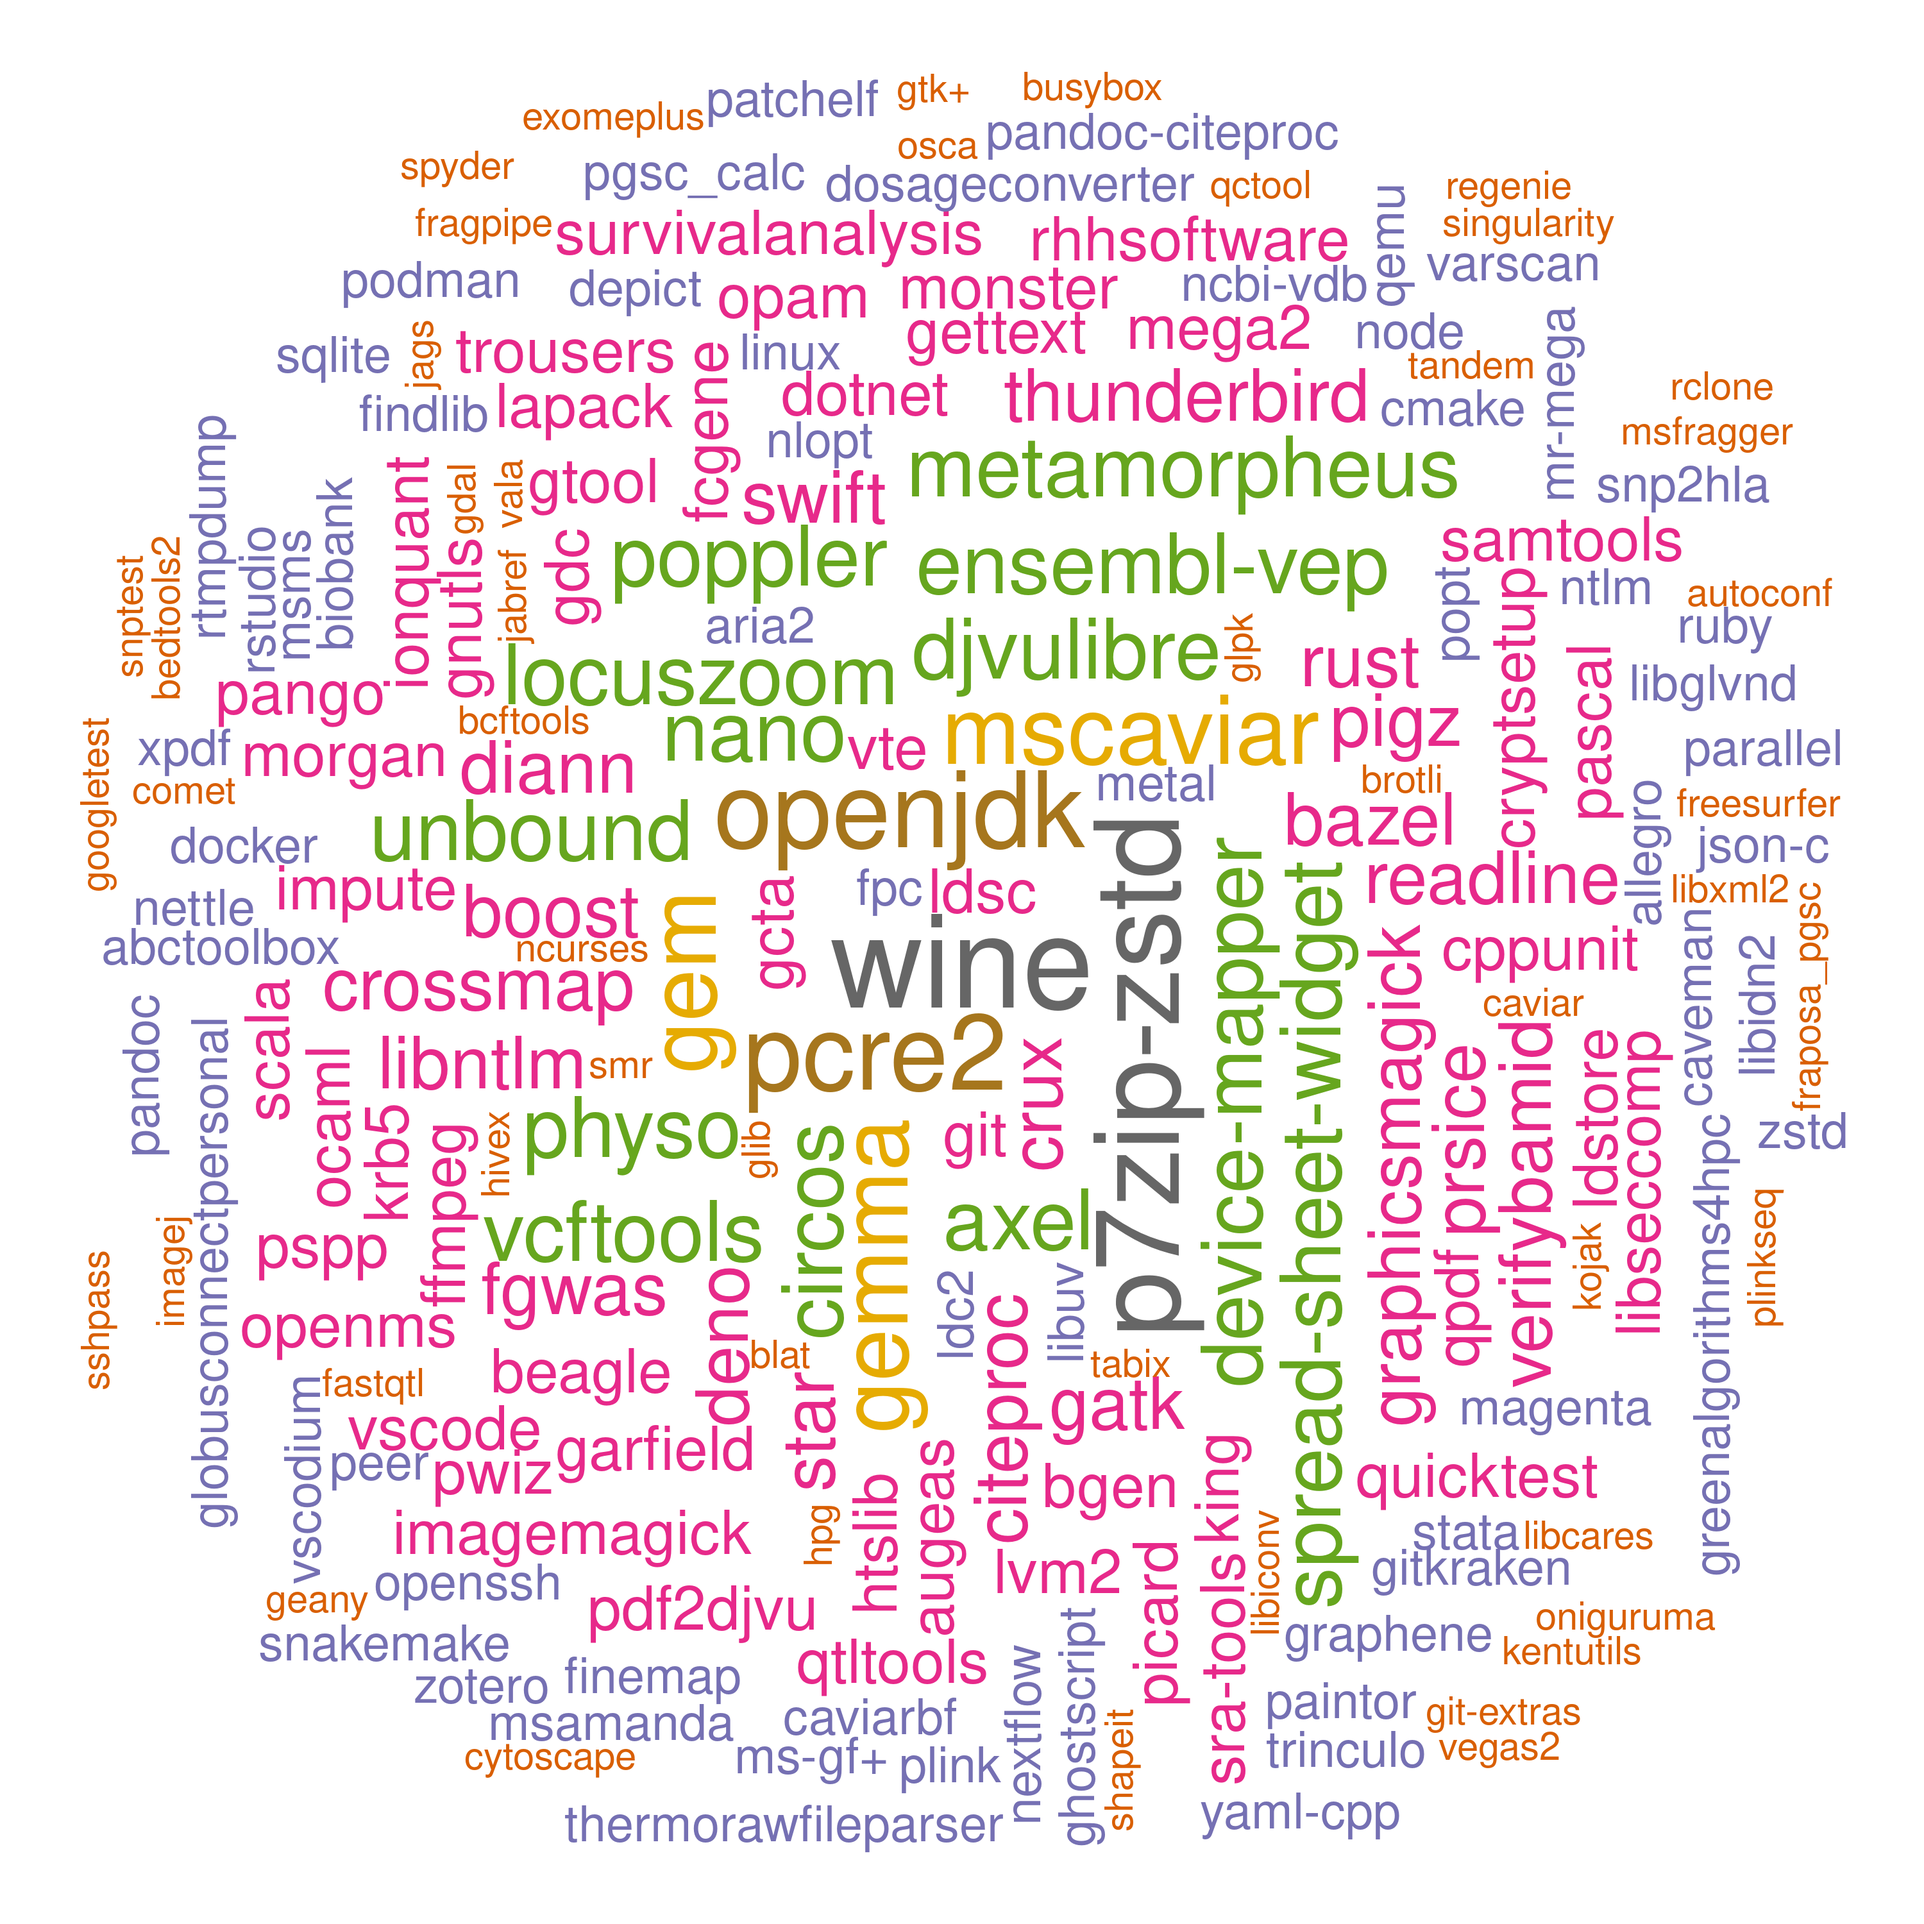
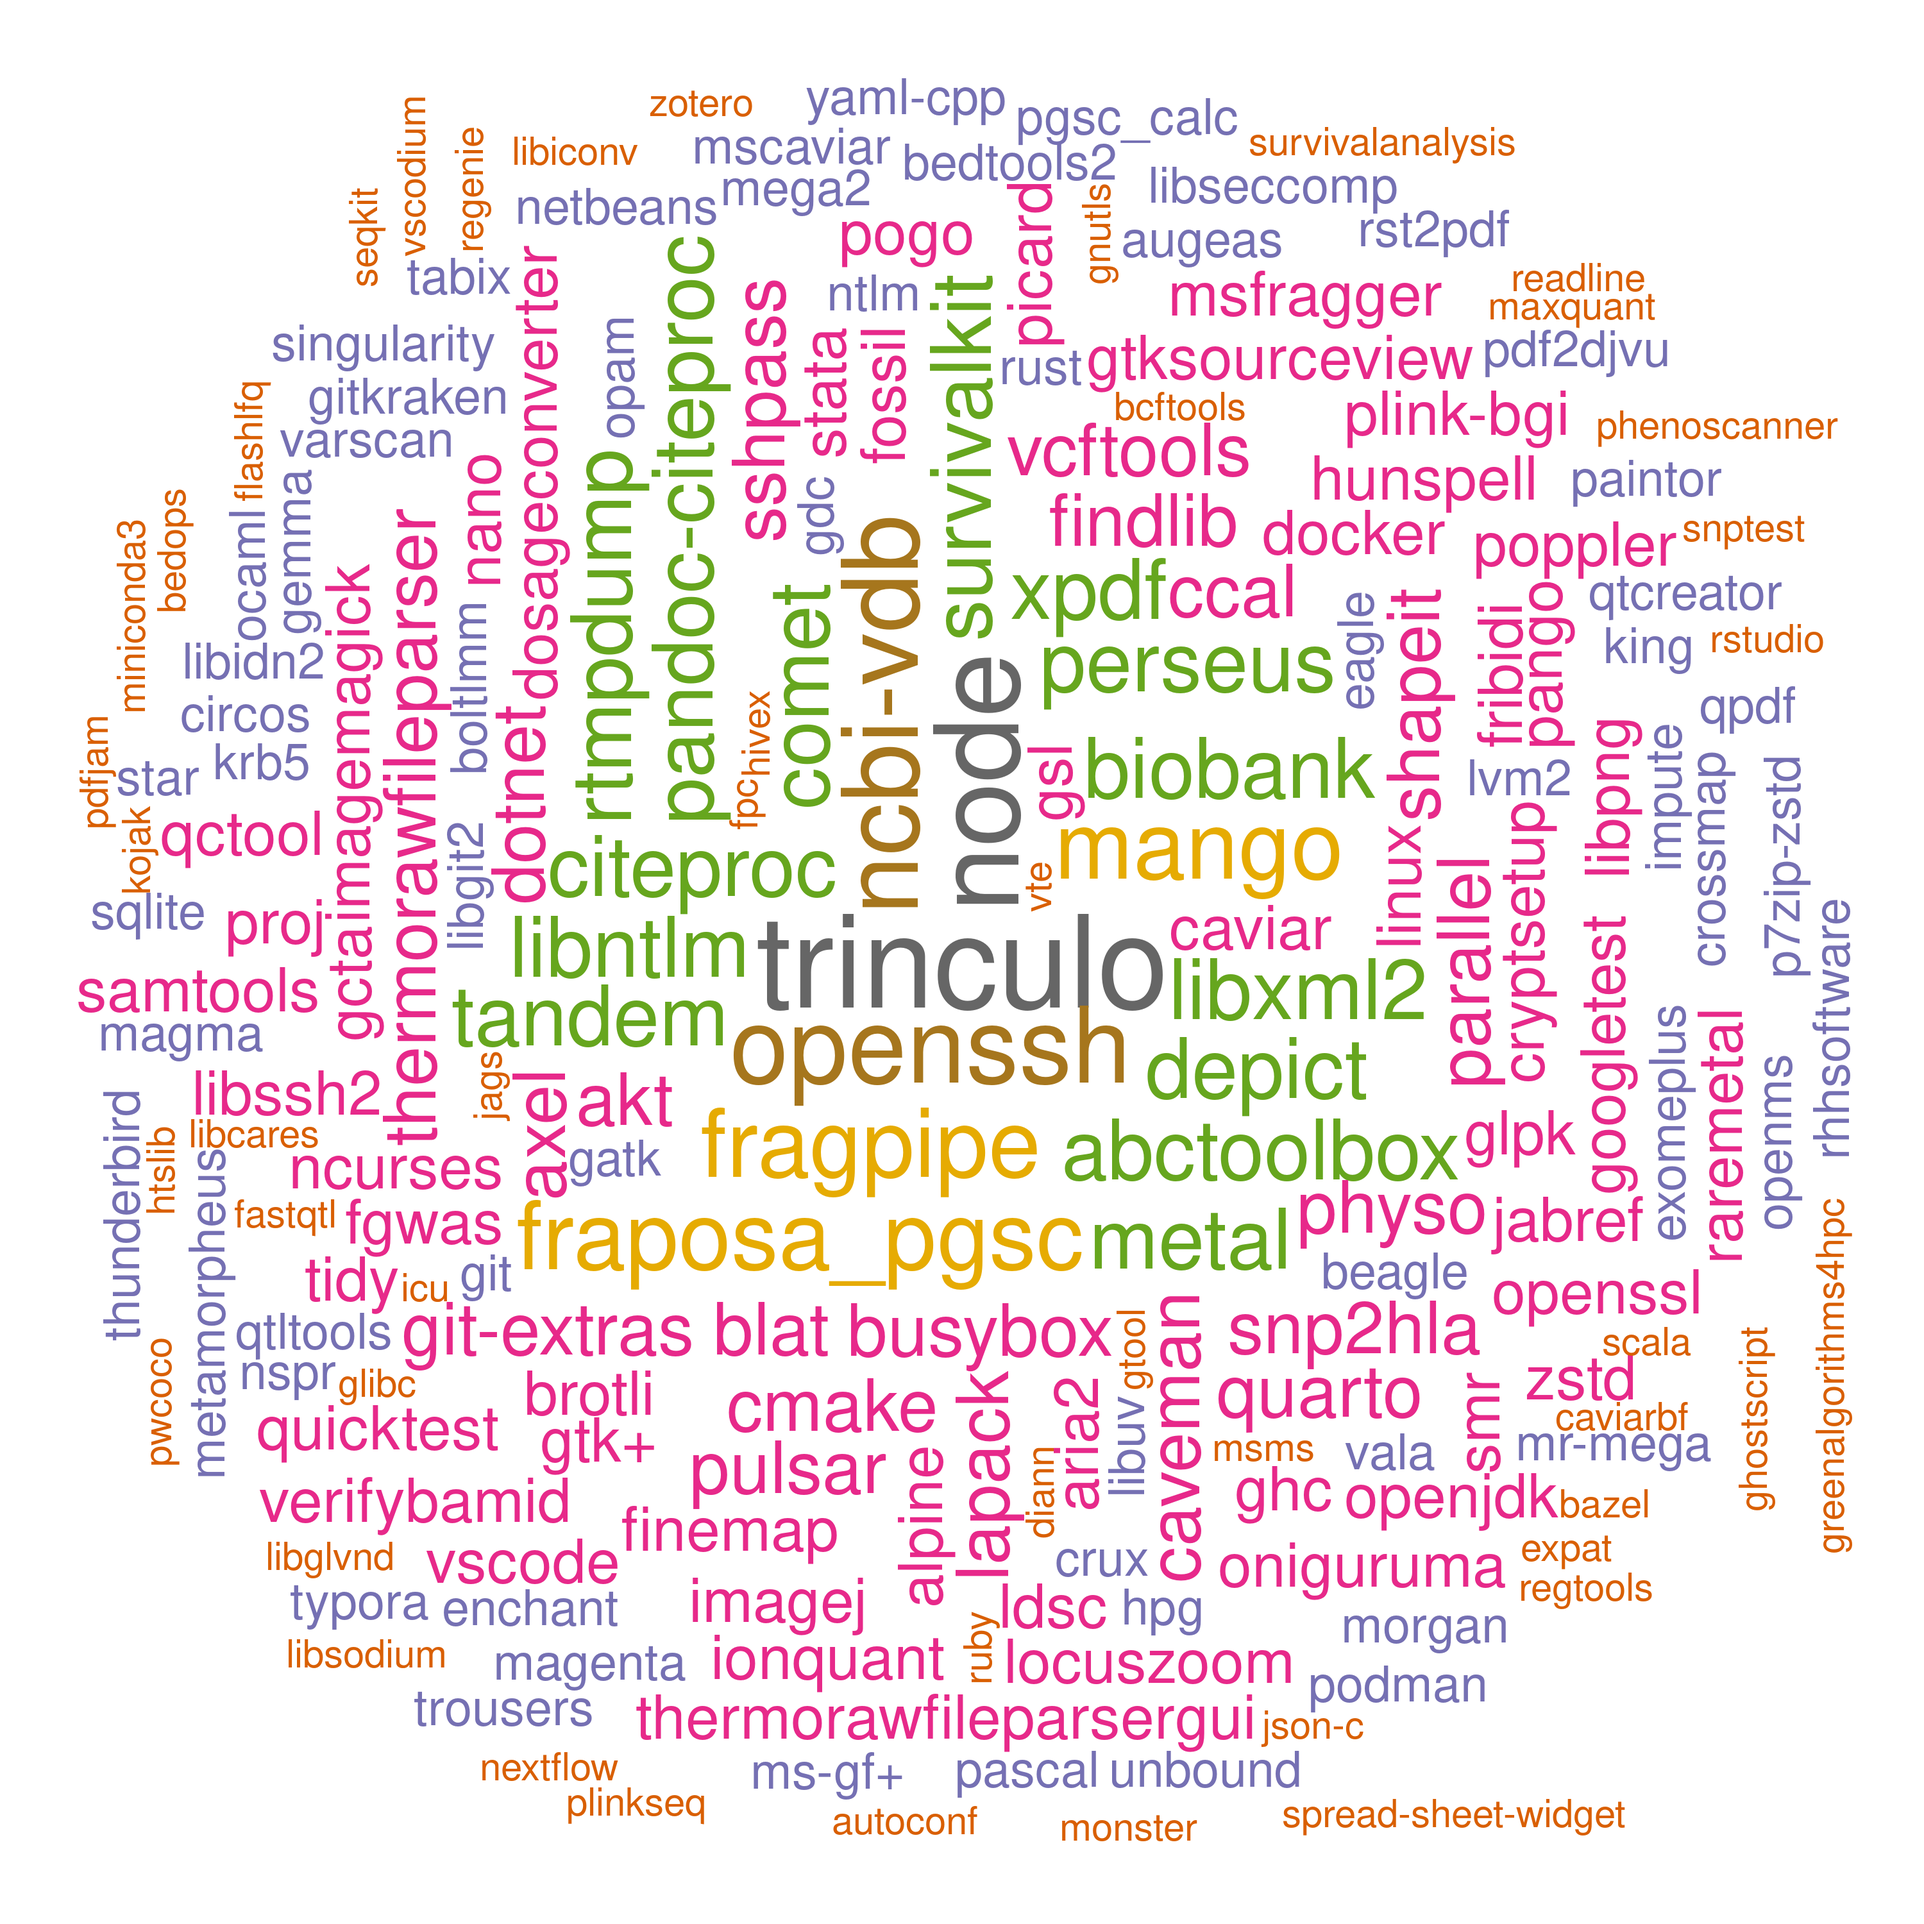
./

Changed region(s): [[0.031, 0.031, 0.961, 0.961]]

diff --git a/systems/ceuadmin.md b/systems/ceuadmin.md
@@ -51,38 +51,39 @@ The current list is as follows,
 [125] "libseccomp"             "libsodium"              "libssh"                 "libssh2"
 [129] "libuv"                  "libxml2"                "libxslt"                "linux"
 [133] "locuszoom"              "LVM2"                   "MAGENTA"                "magma"
-[137] "Mango"                  "Mega2"                  "metal"                  "MetaMorpheus"
-[141] "Miniconda3"             "MONSTER"                "MORGAN"                 "MR-MEGA"
-[145] "MS-GF+"                 "msamanda"               "MsCAVIAR"               "MSFragger"
-[149] "msms"                   "nano"                   "ncbi-vdb"               "ncurses"
-[153] "netbeans"               "nettle"                 "nextflow"               "nlopt"
-[157] "NLopt"                  "node"                   "nspr"                   "ntlm"
-[161] "ocaml"                  "oniguruma"              "opam"                   "openjdk"
-[165] "OpenMS"                 "openssh"                "openssl"                "osca"
-[169] "p7zip-zstd"             "PAINTOR"                "pandoc"                 "pandoc-citeproc"
-[173] "pango"                  "parallel"               "Pascal"                 "patchelf"
-[177] "pcre2"                  "pdf2djvu"               "pdfjam"                 "peer"
-[181] "pgsc_calc"              "phenoscanner"           "PhySO"                  "picard"
-[185] "pigz"                   "plink"                  "plink-bgi"              "plinkseq"
-[189] "podman"                 "PoGo"                   "polyphen"               "poppler"
-[193] "popt"                   "proj"                   "PRSice"                 "pspp"
-[197] "pulsar"                 "PWCoCo"                 "pwiz"                   "qctool"
-[201] "qemu"                   "qpdf"                   "qt"                     "qtcreator"
-[205] "QTLtools"               "quarto"                 "quicktest"              "R"
-[209] "raremetal"              "rclone"                 "readline"               "regenie"
-[213] "regtools"               "RHHsoftware"            "rst2pdf"                "rstudio"
-[217] "rtmpdump"               "ruby"                   "rust"                   "samtools"
-[221] "Scala"                  "seqkit"                 "shapeit"                "singularity"
-[225] "SMR"                    "snakemake"              "SNP2HLA"                "snptest"
-[229] "spread-sheet-widget"    "spyder"                 "sqlite"                 "sra-tools"
-[233] "sshpass"                "ssw"                    "STAR"                   "stata"
-[237] "SurvivalAnalysis"       "SurvivalKit"            "Swift"                  "tabix"
-[241] "tandem"                 "tatami"                 "ThermoRawFileParser"    "ThermoRawFileParserGUI"
-[245] "thunderbird"            "tidy"                   "trinculo"               "trousers"
-[249] "Typora"                 "unbound"                "vala"                   "VarScan"
-[253] "vcftools"               "VEGAS2"                 "verifyBamID"            "VSCode"
-[257] "VSCodium"               "vte"                    "wine"                   "xpdf"
-[261] "yaml-cpp"               "Zotero"                 "zstd"
+[137] "Mango"                  "MaxQuant"               "Mega2"                  "metal"
+[141] "MetaMorpheus"           "Miniconda3"             "MONSTER"                "MORGAN"
+[145] "MR-MEGA"                "MS-GF+"                 "msamanda"               "MsCAVIAR"
+[149] "MSFragger"              "msms"                   "nano"                   "ncbi-vdb"
+[153] "ncurses"                "netbeans"               "nettle"                 "nextflow"
+[157] "nlopt"                  "NLopt"                  "node"                   "nspr"
+[161] "ntlm"                   "ocaml"                  "oniguruma"              "opam"
+[165] "openjdk"                "OpenMS"                 "openssh"                "openssl"
+[169] "osca"                   "p7zip-zstd"             "PAINTOR"                "pandoc"
+[173] "pandoc-citeproc"        "pango"                  "parallel"               "Pascal"
+[177] "patchelf"               "pcre2"                  "pdf2djvu"               "pdfjam"
+[181] "peer"                   "Perseus"                "pgsc_calc"              "phenoscanner"
+[185] "PhySO"                  "picard"                 "pigz"                   "plink"
+[189] "plink-bgi"              "plinkseq"               "podman"                 "PoGo"
+[193] "polyphen"               "poppler"                "popt"                   "proj"
+[197] "PRSice"                 "pspp"                   "pulsar"                 "PWCoCo"
+[201] "pwiz"                   "qctool"                 "qemu"                   "qpdf"
+[205] "qt"                     "qtcreator"              "QTLtools"               "quarto"
+[209] "quicktest"              "R"                      "raremetal"              "rclone"
+[213] "readline"               "regenie"                "regtools"               "RHHsoftware"
+[217] "rst2pdf"                "rstudio"                "rtmpdump"               "ruby"
+[221] "rust"                   "samtools"               "Scala"                  "seqkit"
+[225] "shapeit"                "singularity"            "SMR"                    "snakemake"
+[229] "SNP2HLA"                "snptest"                "spread-sheet-widget"    "spyder"
+[233] "sqlite"                 "sra-tools"              "sshpass"                "ssw"
+[237] "STAR"                   "stata"                  "SurvivalAnalysis"       "SurvivalKit"
+[241] "Swift"                  "tabix"                  "tandem"                 "tatami"
+[245] "ThermoRawFileParser"    "ThermoRawFileParserGUI" "thunderbird"            "tidy"
+[249] "trinculo"               "trousers"               "Typora"                 "unbound"
+[253] "vala"                   "VarScan"                "vcftools"               "VEGAS2"
+[257] "verifyBamID"            "VSCode"                 "VSCodium"               "vte"
+[261] "wine"                   "xpdf"                   "yaml-cpp"               "Zotero"
+[265] "zstd"
 ```
 
 These are wrapped up as :star::star::star: **[modules](https://modules.readthedocs.io/en/latest/index.html)** :star::star::star:.
@@ -355,6 +356,8 @@ Further information is avaiiable from **/usr/local/Cluster-Apps/ceuadmin/doc/ceu
     | ""         | bcftools/1.20               | Genetics            |
     | ""         | samtools/1.20               | Genetics            |
     | 2024-08-23 | qpdf/11.9.1                 | Generic             |
+    | 2024-09-01 | MaxQuant/2.6.4.0            | Proteomics          |
+    | ""         | Perseus/2.1.2.0             | Proteomics          |
 
     \* CEU or approved users only.
 

diff --git a/systems/setup.md b/systems/setup.md
@@ -323,6 +323,9 @@ All entries are ordered chronologically.
 | ""          | bcftools/1.20                    | Genetics             |
 | ""          | samtools/1.20                    | Genetics             |
 | 2024-08-23  | qpdf/11.9.1                      | Generic              |
+| 2024-08-23  | qpdf/11.9.1                      | Generic              |
+| 2024-09-01  | MaxQuant/2.6.4.0                 | Proteomics           |
+| ""          | Perseus/2.1.2.0                  | Proteomics           |
 
 \* CEU or approved users only.
 
